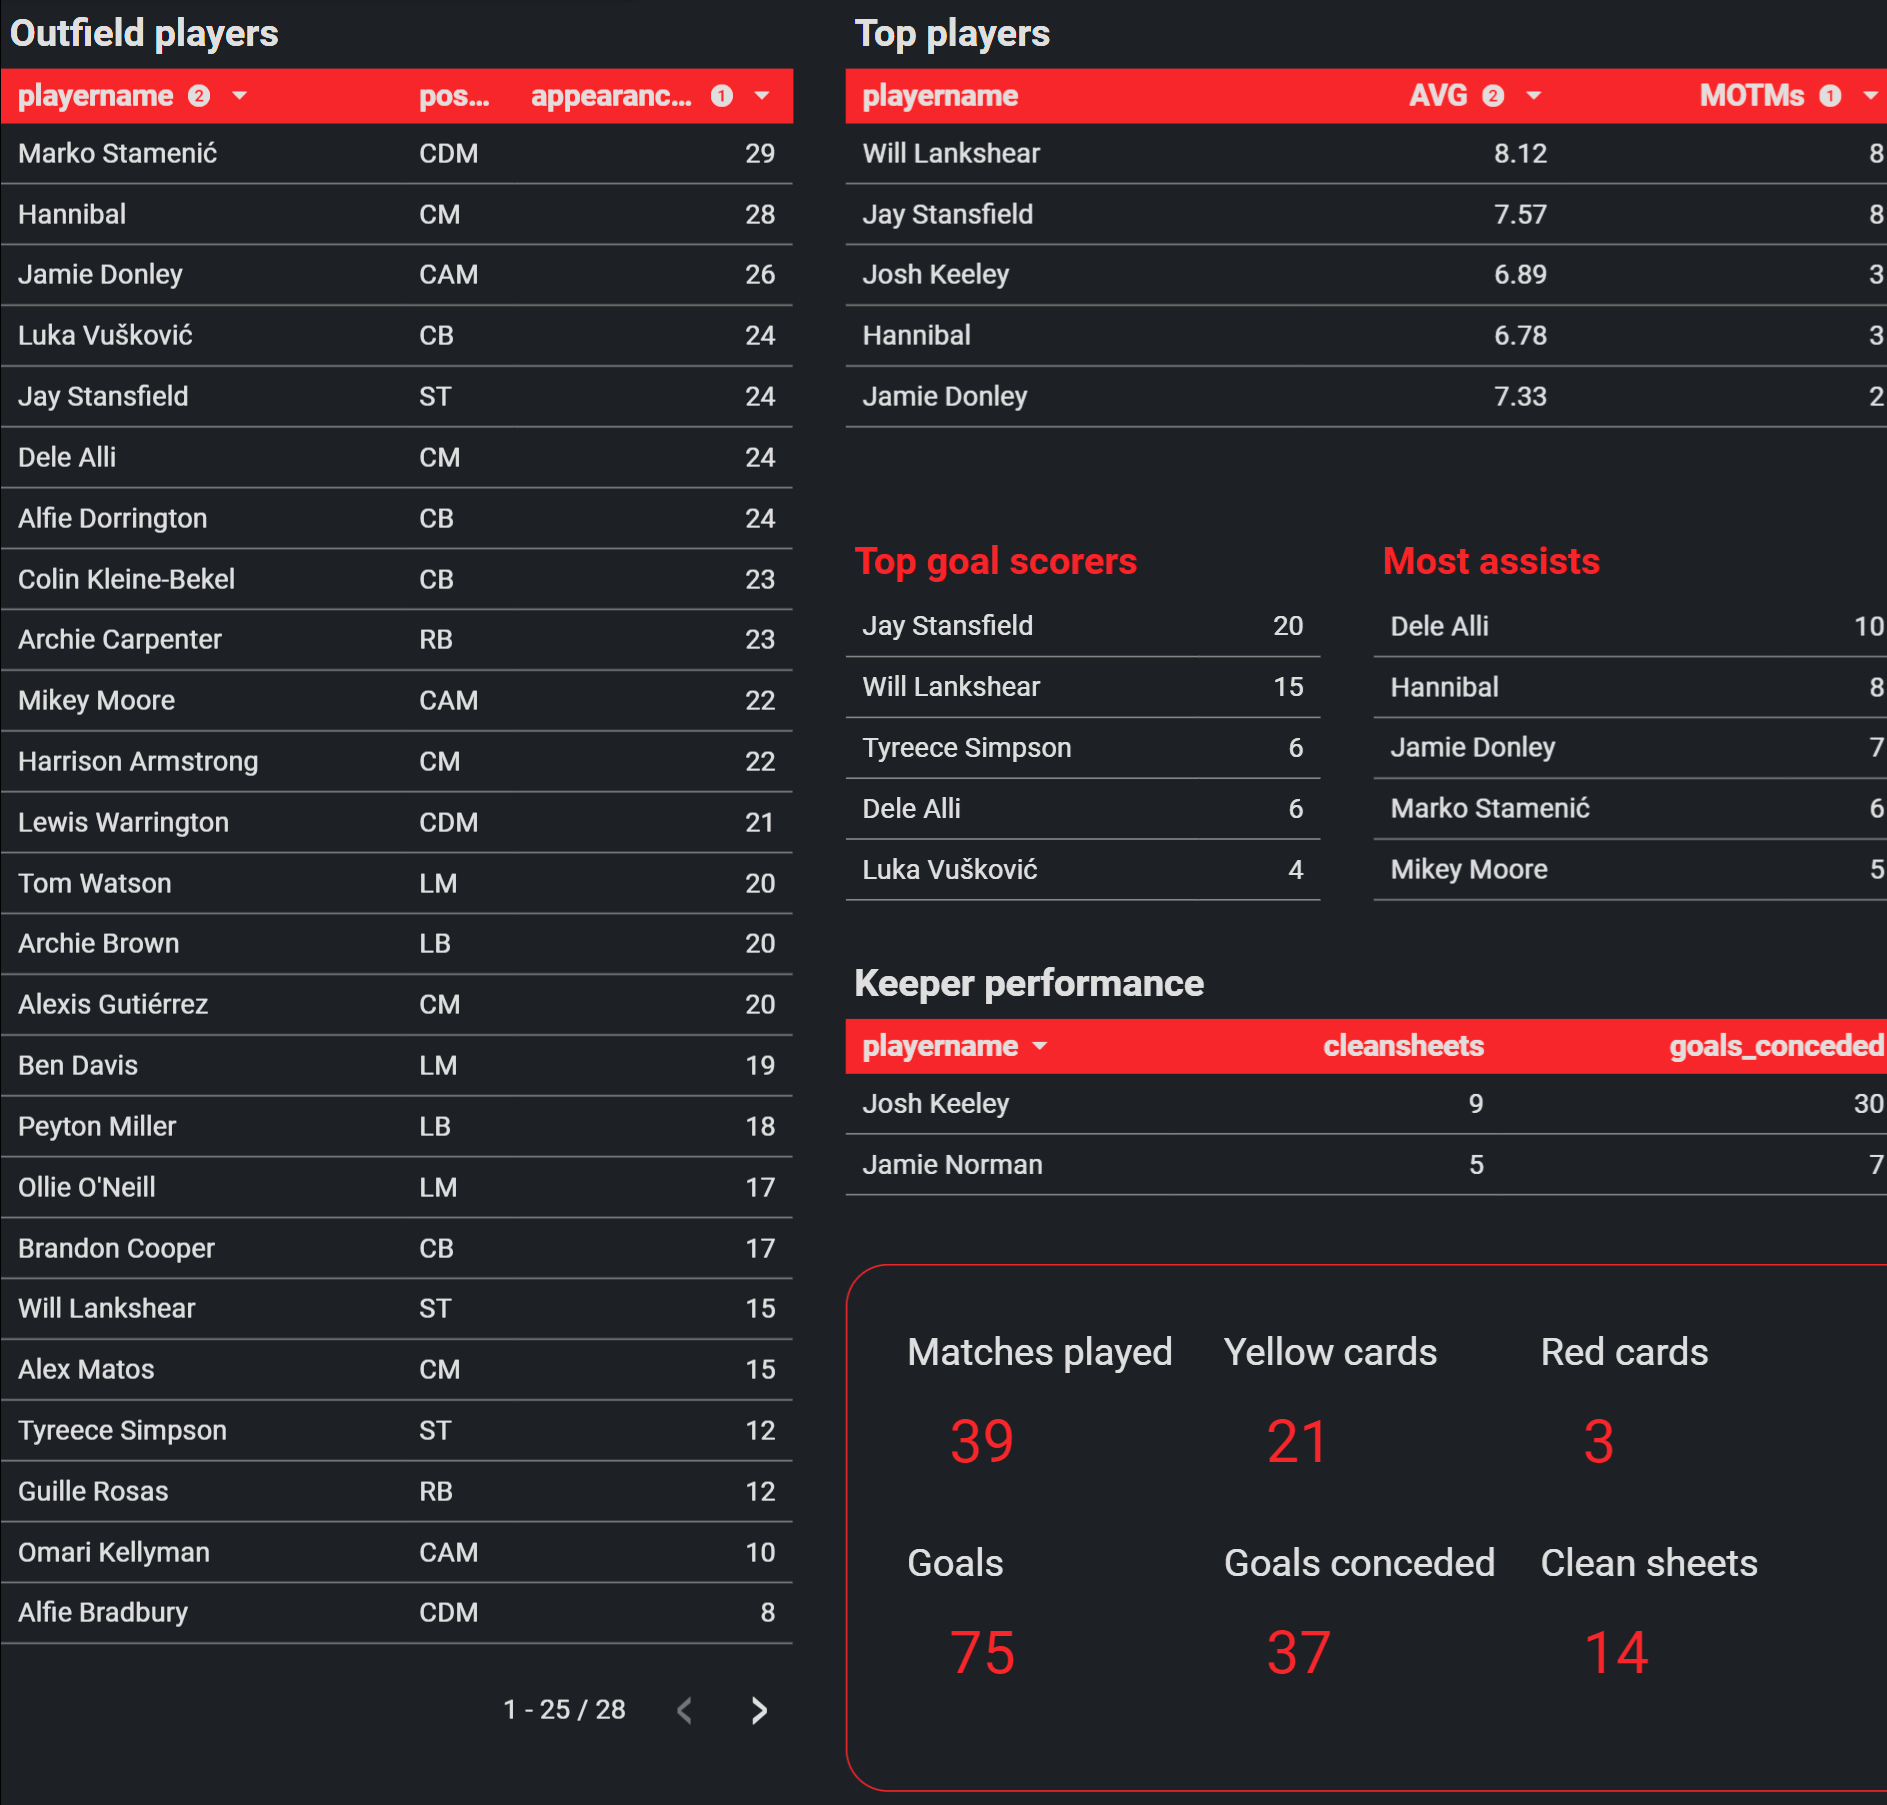
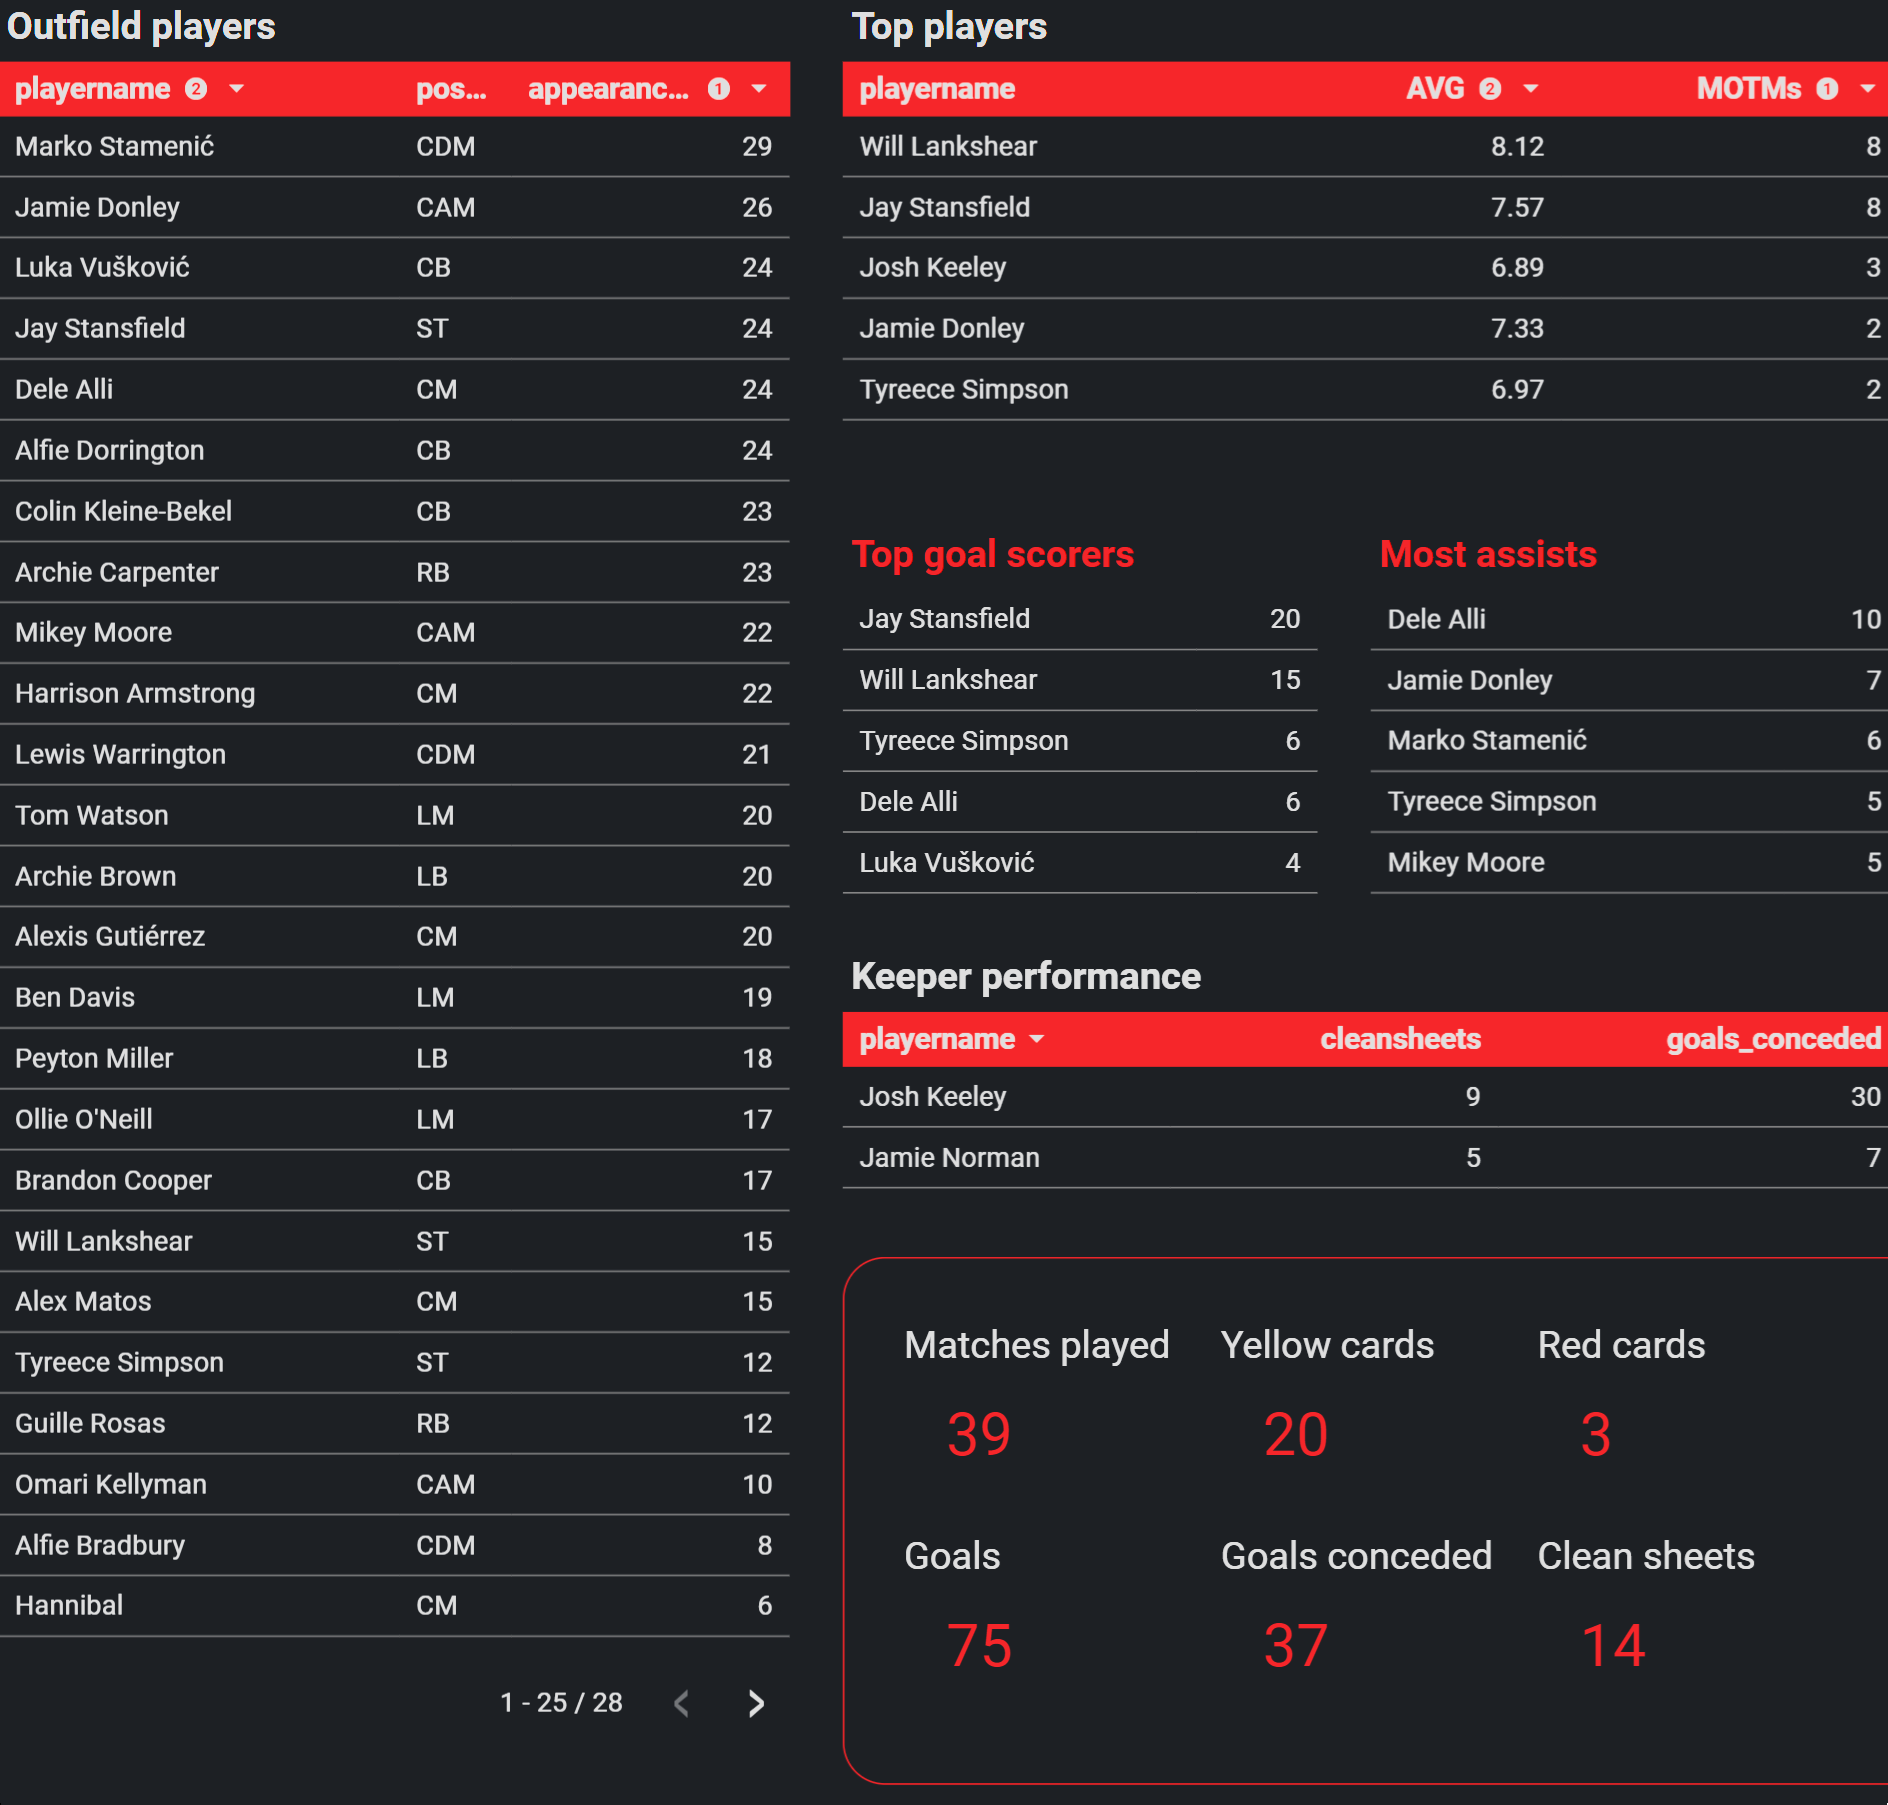
feat: Add career records dashboard and update TOC
- Embed Looker Studio dashboard for career records in the LOFC Career Mode introduction post.
- Enable automatic Table of Contents and rename the heading to "Chapter navigation".
- Update player statistics image.

diff --git a/_posts/2025-03-06-LOFC-CM-CH00.md b/_posts/2025-03-06-LOFC-CM-CH00.md
@@ -5,11 +5,12 @@ categories: ["Gaming", "EA FC 2025", "LOFC-CM-2025"]
 tags: ["Leyton Orient", "Career Mode", "LOFC-CM-2025"]
 description: Welcome to the Leyton Orient EA FC 2025 Career Mode blog, chronicling the journey of Filippo Inzaghi as he builds a dynasty in East London, started IRL March 2025.
 pin: true
+toc: true
 ---
 
 ![banner](/assets/img/LOFC-CM-CH00/Banner.png)
 
-### Table of Contents
+### Chapter navigation
 
 | Chapter Number | Title |
 | :------------- | :---- |
@@ -79,6 +80,17 @@ Our primary formation is a **4-2-3-1**, focusing on an Advanced Forward, Inside 
 ### Squad Overview
 
 As of `02 Nov 2025` in game, our squad has a total market value of **£84.275M** with 29 players and an average age of 23.45. We have 6 foreigners and 4 national team players. The average overall rating is 67.41. Our current top transfer is *Alexis Vega* for £13.5M.
+
+#### Career records dashboard
+
+<iframe 
+    width="700" height="800" 
+    src="https://lookerstudio.google.com/embed/reporting/4f3cf3f1-61a1-45f3-9419-666ef9f5588f/page/YTz7E" 
+    frameborder="0" 
+    style="border:0" 
+    allowfullscreen 
+    sandbox="allow-storage-access-by-user-activation allow-scripts allow-same-origin allow-popups allow-popups-to-escape-sandbox">
+</iframe>
 
 ## Custom Game Rules
 
